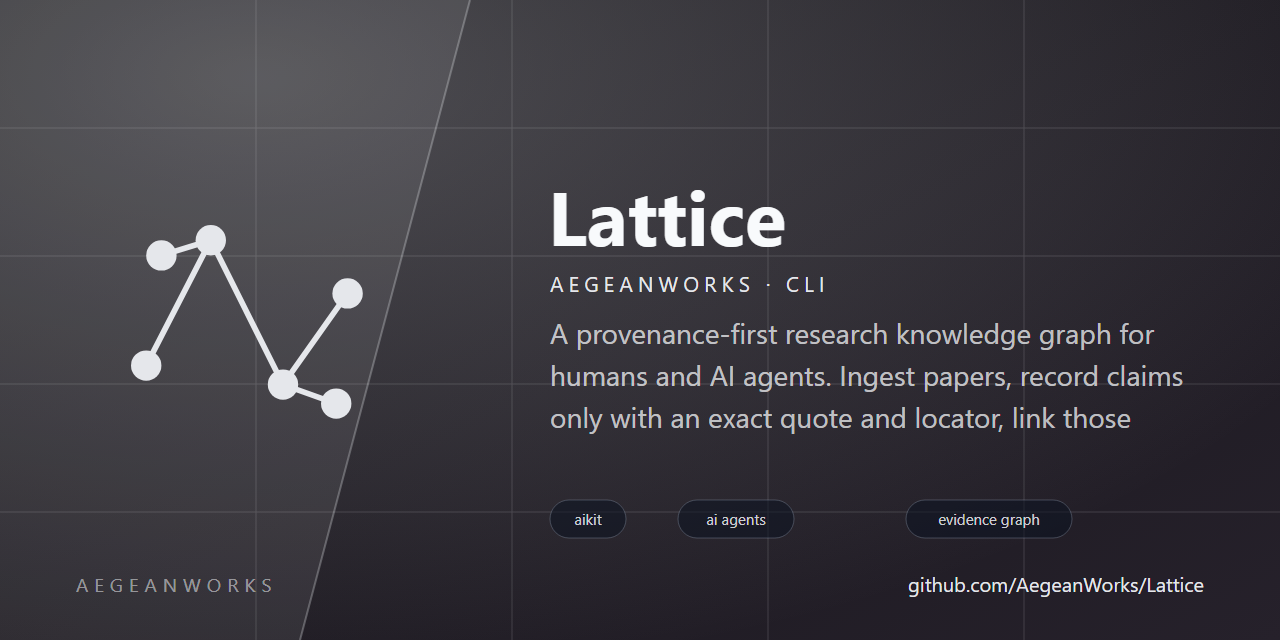
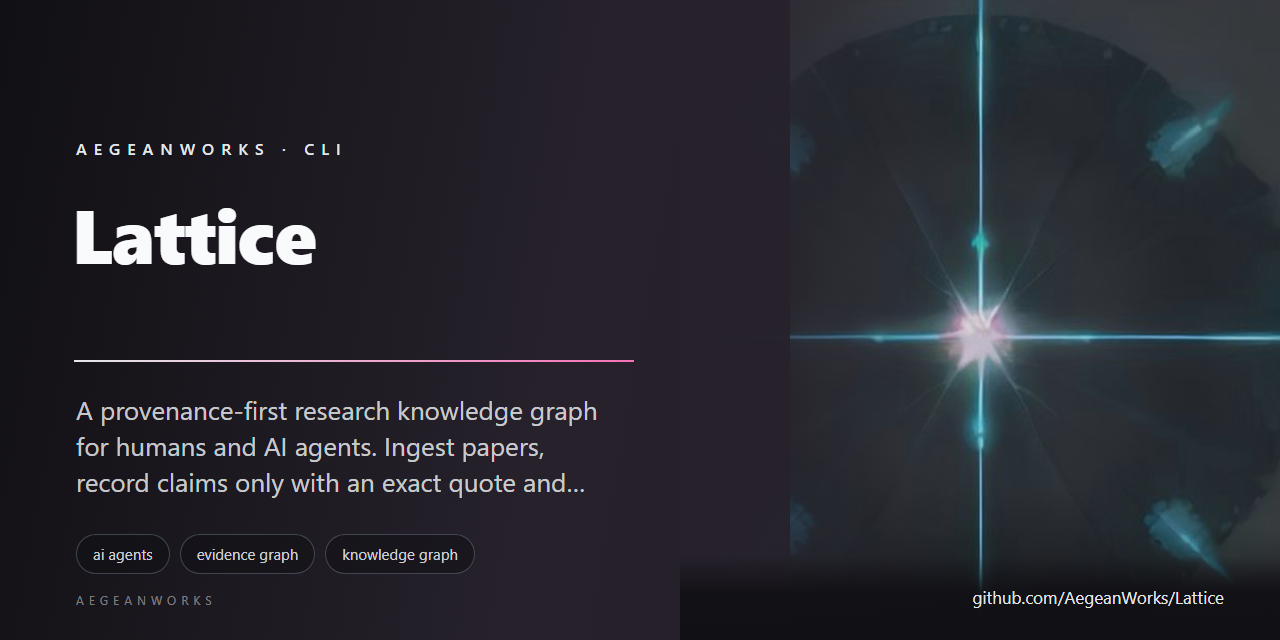
feat(brand): replace procedural marks with reviewed AI-art identities

diff --git a/README.md b/README.md
@@ -1,8 +1,8 @@
 # lattice
 
 <!-- aegean:media:start -->
-<p align="center"><img src="assets/logo.svg" alt="Lattice logo" width="96" height="96"></p>
-<p align="center"><img src="assets/social-preview.svg" alt="Lattice social preview" width="100%"></p>
+<p align="center"><img src="assets/logo.png" alt="Lattice logo" width="96" height="96"></p>
+<p align="center"><img src="assets/social-preview.png" alt="Lattice social preview" width="100%"></p>
 <!-- aegean:media:end -->
 
 A provenance-first research knowledge graph for humans and AI agents. Ingest papers, record
